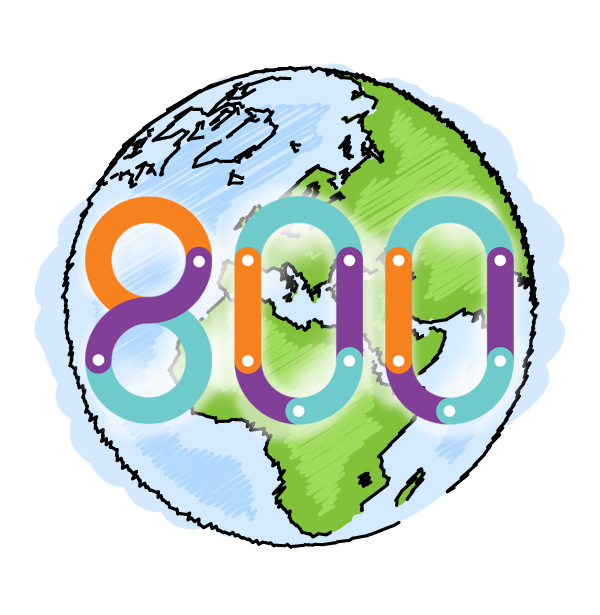
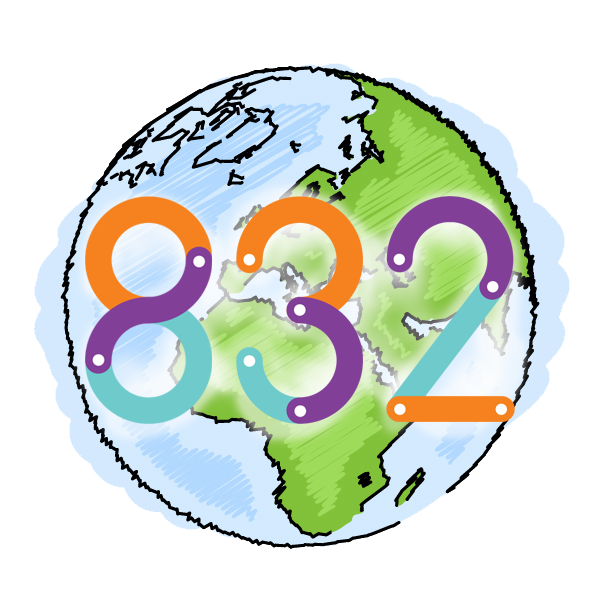
fix typos, photoshoped images with new content

Changed region(s): [[0.33, 0.3089, 0.87, 0.7106]]

diff --git a/bundle.js b/bundle.js
@@ -44712,7 +44712,7 @@
 	      _react2.default.createElement(
 	        'h1',
 	        { className: 'purple' },
-	        'WHO WE ARE'
+	        'WHO?'
 	      ),
 	      _react2.default.createElement(
 	        'p',
@@ -49556,7 +49556,7 @@
 	        path: '/cambodia',
 	        text: 'Cambodia'
 	      }, {
-	        img: 'modules/assets/thumbnails/jeevan%20school%20MUST%20USE.jpg',
+	        img: 'modules/assets/thumbnails/inclass-india.jpg',
 	        link: '#india',
 	        path: '/india',
 	        text: 'India'
@@ -50799,7 +50799,7 @@
 	          _react2.default.createElement(
 	            'center',
 	            null,
-	            'Since we started our mission in 2009, over 2460 children and teenagers have attended class at the schools we support.'
+	            'Since we started our mission in 2009, over 2462 children and teenagers have attended class at the schools we support.'
 	          )
 	        ),
 	        _react2.default.createElement(
@@ -50809,7 +50809,7 @@
 	          _react2.default.createElement(
 	            'center',
 	            null,
-	            'There are currently 800 children in class or in care worldwide, and counting\u2026'
+	            'There are currently 832 children in class or in care worldwide, and counting\u2026'
 	          )
 	        ),
 	        _react2.default.createElement(
@@ -50819,10 +50819,12 @@
 	          _react2.default.createElement(
 	            'center',
 	            null,
-	            'Our partner organisation in Syria work with children who have been injured, lost or kidnapped. In 2016 over 1870 children received medical treatment or an education by our two partner orgs there.'
+	            'Our partner organisation in Syria work with children who have been injured, lost or kidnapped. In 2016 over 1876 children received medical treatment or an education by our two partner orgs there.'
 	          )
 	        )
 	      ),
+	      _react2.default.createElement('br', null),
+	      _react2.default.createElement('br', null),
 	      _react2.default.createElement('br', null),
 	      _react2.default.createElement(
 	        'section',
@@ -50830,7 +50832,7 @@
 	        _react2.default.createElement(
 	          'h1',
 	          { className: 'purple' },
-	          'Help a child, support us!'
+	          'Get involved today!'
 	        ),
 	        _react2.default.createElement(
 	          'div',
@@ -50841,7 +50843,7 @@
 	            _react2.default.createElement(
 	              'span',
 	              { className: 'interested-btn' },
-	              'Start a fundraise'
+	              'Start a fundraiser'
 	            )
 	          ),
 	          _react2.default.createElement(
@@ -50855,6 +50857,8 @@
 	          )
 	        )
 	      ),
+	      _react2.default.createElement('br', null),
+	      _react2.default.createElement('br', null),
 	      _react2.default.createElement('br', null),
 	      _react2.default.createElement(
 	        'div',
@@ -50900,7 +50904,7 @@
 	      _react2.default.createElement(
 	        'p',
 	        null,
-	        'Our ',
+	        'The ',
 	        _react2.default.createElement(
 	          _NavLink2.default,
 	          { to: '/india', className: 'purple' },

diff --git a/modules/Impact.js b/modules/Impact.js
@@ -16,25 +16,29 @@ const Impact = () => {
       <section className="flex-row">
         <div style={{width: "25%", padding:"2%"}}>
           <img style={{width: "100%"}} src="modules/assets/Playground.png"/>
-          <center>Since we started our mission in 2009, over 2460 children and teenagers have attended class at the schools we support.</center>
+          <center>Since we started our mission in 2009, over 2462 children and teenagers have attended class at the schools we support.</center>
         </div>
         <div style={{width: "25%", padding:"2%"}}>
           <img style={{width: "100%"}} src="modules/assets/earth.png"/>
-          <center>There are currently 800 children in class or in care worldwide, and counting…</center>
+          <center>There are currently 832 children in class or in care worldwide, and counting…</center>
         </div>
         <div style={{width: "25%", padding:"2%"}}>
           <img style={{width: "100%"}} src="modules/assets/Bedroom.png"/>
-          <center>Our partner organisation in Syria work with children who have been injured, lost or kidnapped. In 2016 over 1870 children received medical treatment or an education by our two partner orgs there.</center>
+          <center>Our partner organisation in Syria work with children who have been injured, lost or kidnapped. In 2016 over 1876 children received medical treatment or an education by our two partner orgs there.</center>
         </div>
       </section>
       <br />
+      <br />
+      <br />
       <section style={{textAlign:"center"}}>
-        <h1 className="purple">Help a child, support us!</h1>
+        <h1 className="purple">Get involved today!</h1>
         <div>
-          <NavLink to="/fundraise"><span className="interested-btn">Start a fundraise</span></NavLink>
+          <NavLink to="/fundraise"><span className="interested-btn">Start a fundraiser</span></NavLink>
           <NavLink to="/donate"><span className="interested-btn">Make a donation</span></NavLink>
         </div>
       </section>
+      <br />
+      <br />
       <br />
       <div className="text-container">
       <h2>Cambodia</h2>
@@ -51,7 +55,7 @@ const Impact = () => {
          
         <p>The Jeevan School is a loving home to 40 homeless ‘street' children living in full time accommodation, and another 100+ receive an all-round education and meals.</p>
 
-        <p>Our <NavLink to="/india" className="purple">Jeevan Village</NavLink> will offer a home to 100 homeless children and schooling to over 300 more. Support the project today!</p>
+        <p>The <NavLink to="/india" className="purple">Jeevan Village</NavLink> will offer a home to 100 homeless children and schooling to over 300 more. Support the project today!</p>
 
         <div className="flex-row">
           <div className="impact-img" style={{backgroundImage:"url(modules/assets/img19.jpg)", backgroundSize:"cover"}}></div>

diff --git a/modules/About.js b/modules/About.js
@@ -28,7 +28,7 @@ const About = () => {
   return (
     <div className="container-topMargin">
       <section className="text-container">
-      <h1 className="purple">WHO WE ARE</h1>
+      <h1 className="purple">WHO?</h1>
           <p>We are a non-profit organisation building schools to end child poverty in developing countries. Our Founders, Andy & Calvin, also created <a className="purple" href="www.syriasvibes.com">Syrias Vibes</a> - an initiative that supports medical clinics and emergency rescue services in Syria.</p>
       </section>
       <section>

diff --git a/modules/InClass.js b/modules/InClass.js
@@ -9,7 +9,7 @@ class InClass extends React.Component {
       path: '/cambodia',
       text: 'Cambodia'
     }, {
-      img: 'modules/assets/thumbnails/jeevan%20school%20MUST%20USE.jpg',
+      img: 'modules/assets/thumbnails/inclass-india.jpg',
       link: '#india',
       path: '/india',
       text: 'India'
